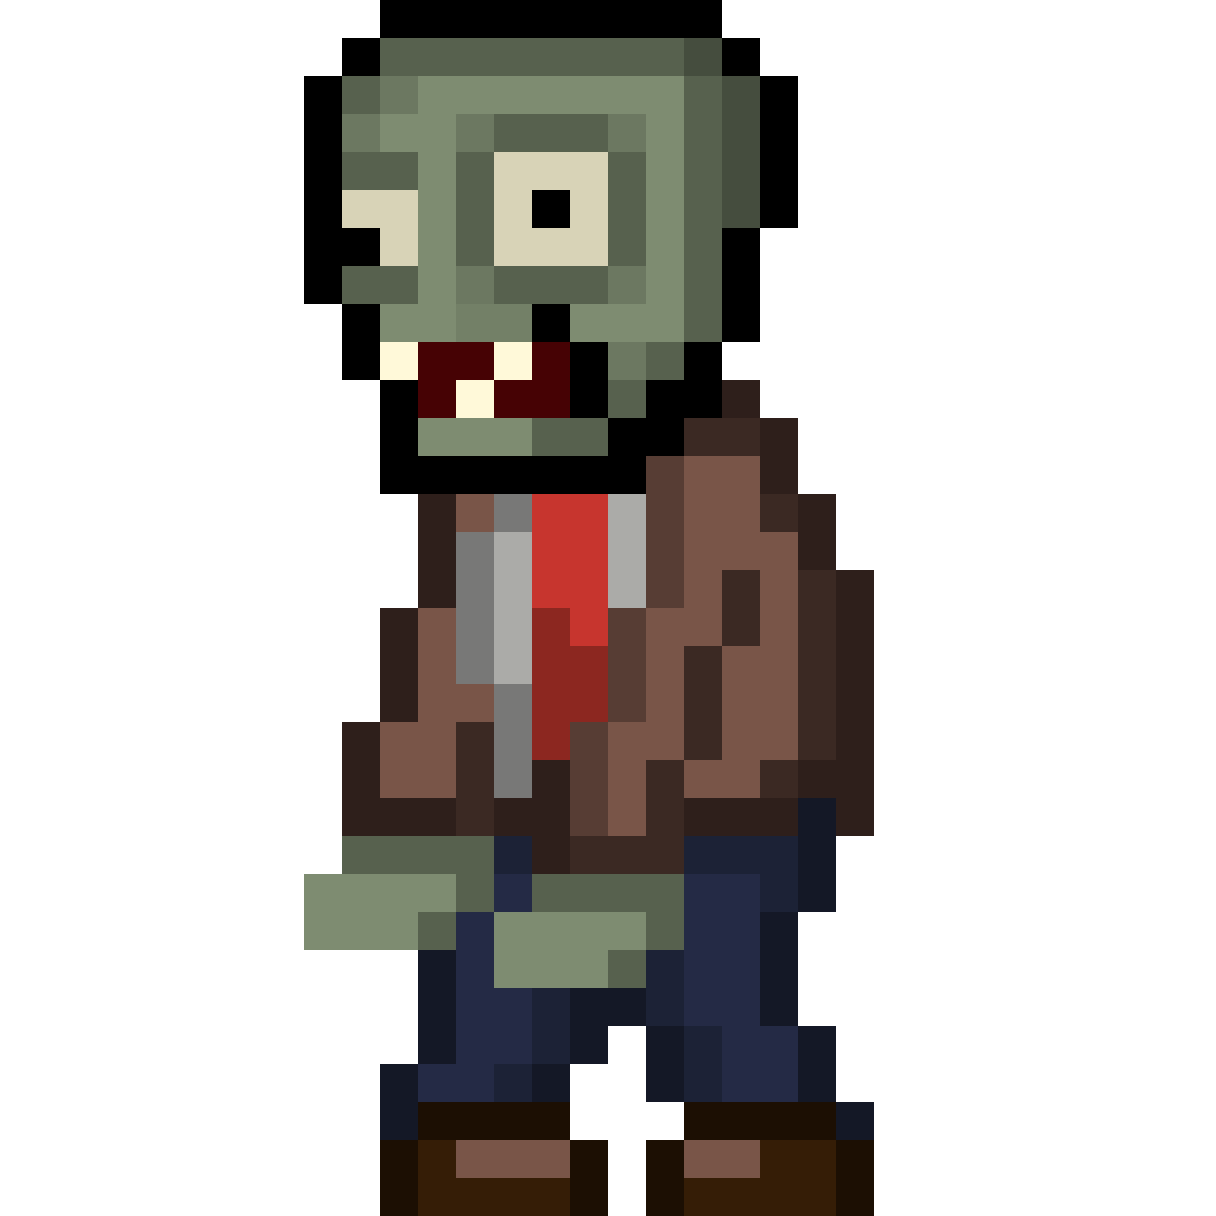
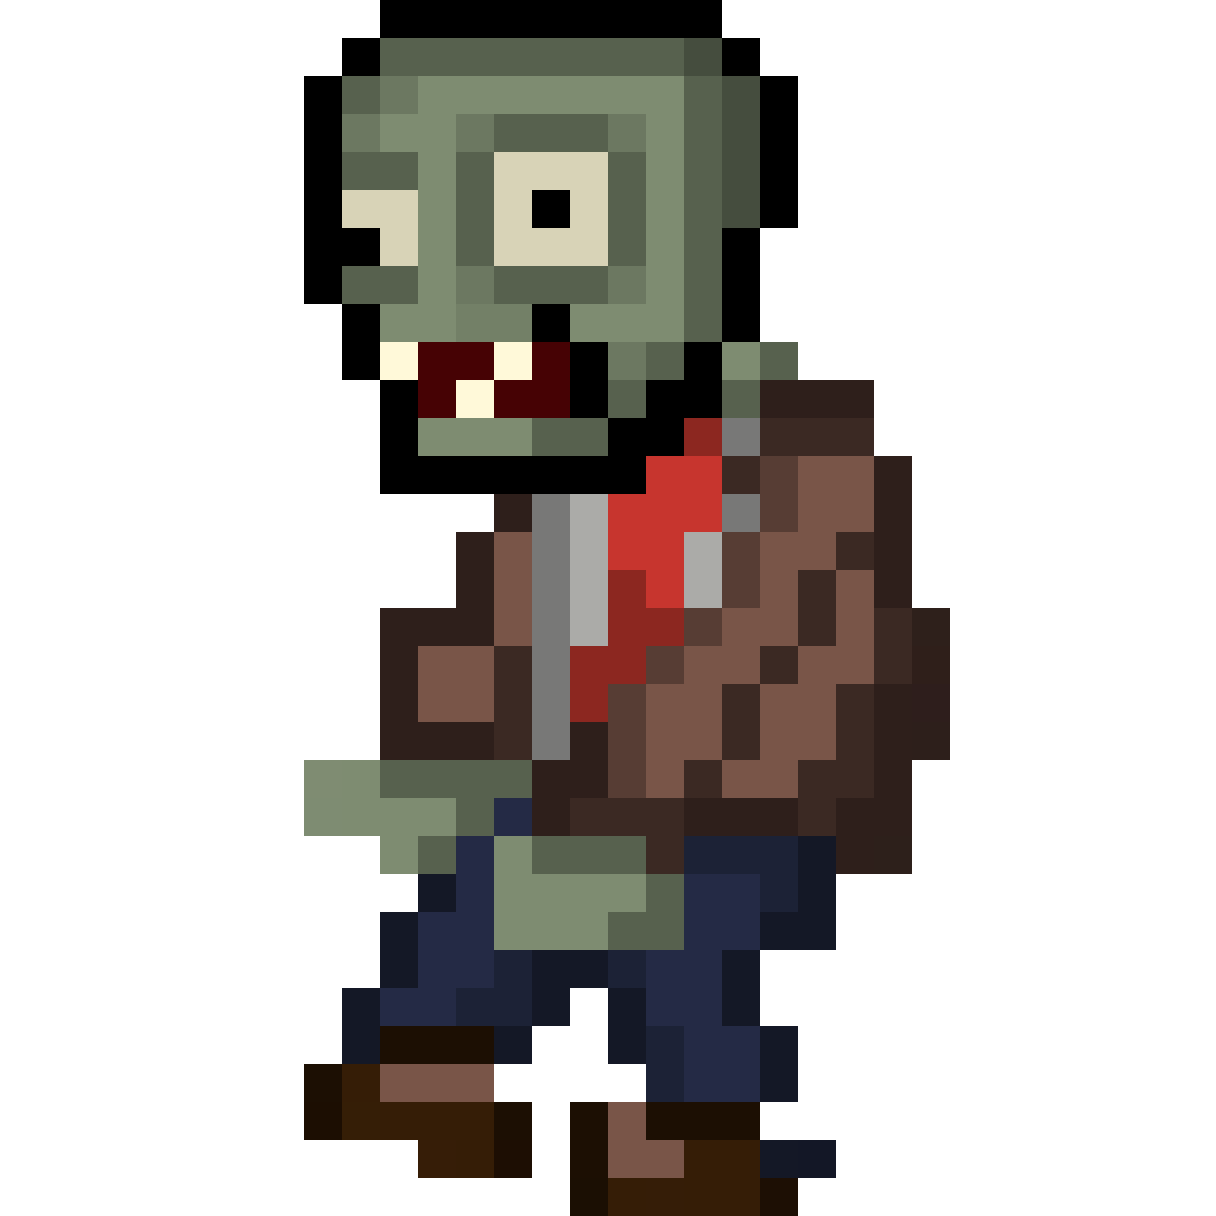
增加僵尸死亡动画

diff --git a/Zombies.h b/Zombies.h
@@ -8,7 +8,7 @@ extern Atlas atlas_zombies_die;
 
 class Zombie :public Object {
 public:
-	enum Status { WALK, ATTACK };
+	enum Status { WALK, ATTACK, DIE };
 
 public:
 	bool is_end = false;
@@ -24,6 +24,8 @@ public:
 		die(&atlas_zombies_die, ZOMBIE_FRAME_INTERVAL),
 		Object(x, y, ZOMBIE_SIZE, ZOMBIE_SIZE, 30) {
 		attack_interval = ZOMBIE_FRAME_INTERVAL * 5;
+		die.set_loop(false);
+		die.set_interval(120);
 	}
 
 	void Move() {
@@ -44,7 +46,7 @@ public:
 	void DecreaseHP(int damage) {
 		zombie_hp -= damage;
 		if (zombie_hp <= 0) {
-			is_end = true;
+			status = Status::DIE;
 		}
 	}
 
@@ -58,8 +60,15 @@ public:
 			attack.Play(x, y, delta_time);
 			Attack(delta_time);
 			break;
-		default:
+		case Status::DIE:
+			die.Play(x, y, delta_time);
 			break;
+		}
+	}
+
+	void Update() {
+		if (status == Status::DIE && die.is_finished) {
+			is_end = true;
 		}
 	}
 

diff --git a/Bullet.h b/Bullet.h
@@ -32,7 +32,7 @@ public:
 		int num = zombies_layer.zombies_list.size();
 		for (int i = 0; i < num; i++) {
 			Zombie* temp = zombies_layer.zombies_list[i];
-			if (row == temp->row && is_collision(*temp)) {
+			if (row == temp->row && temp->status != Zombie::Status::DIE && is_collision(*temp)) {
 				is_hit = true;
 				temp->DecreaseHP(damage);
 				//std::cout << "decrease hp\n";
@@ -41,7 +41,7 @@ public:
 	}
 
 	void Move() {
-		x += is_hit ? 0 : BULLET_SPEED;
+		x += BULLET_SPEED;
 	}
 
 	void Draw() {
@@ -54,8 +54,10 @@ public:
 	}
 
 	void Update() {
-		if(!is_hit) Detect();
-		Move();
+		if (!is_hit) {
+			Detect();
+			Move();
+		}
 		if (x >= WINDOW_WIDTH) {
 			is_end = true;
 		}

diff --git a/ZombiesLayer.h b/ZombiesLayer.h
@@ -62,6 +62,7 @@ public:
 		AddZombie(delta_time);
 		for (int i = 0; i < zombies_list.size(); i++) {
 			Zombie* temp = zombies_list[i];
+			temp->Update();
 
 			if (temp->x + temp->width <= MAP_LEFT_X) {
 				temp->is_end = true;
